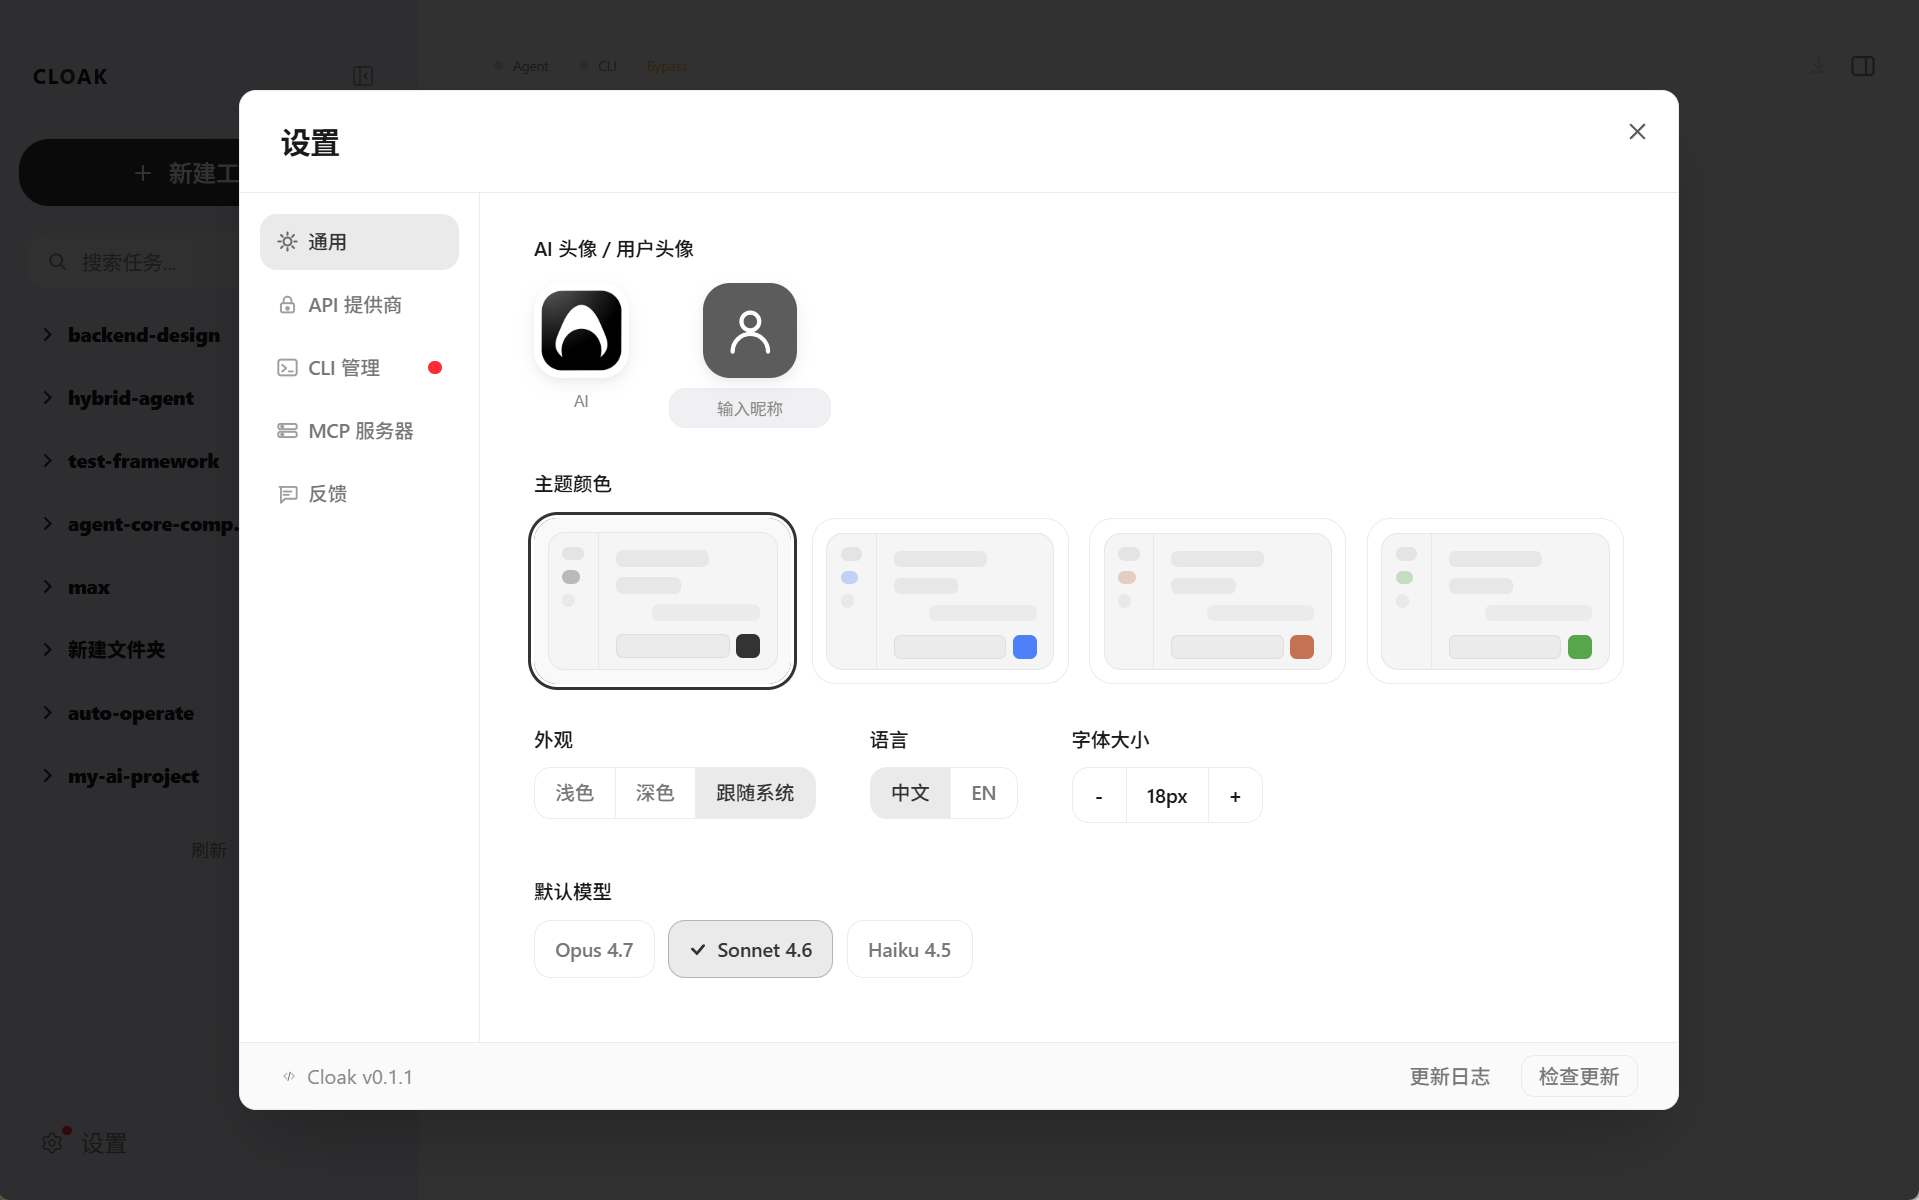
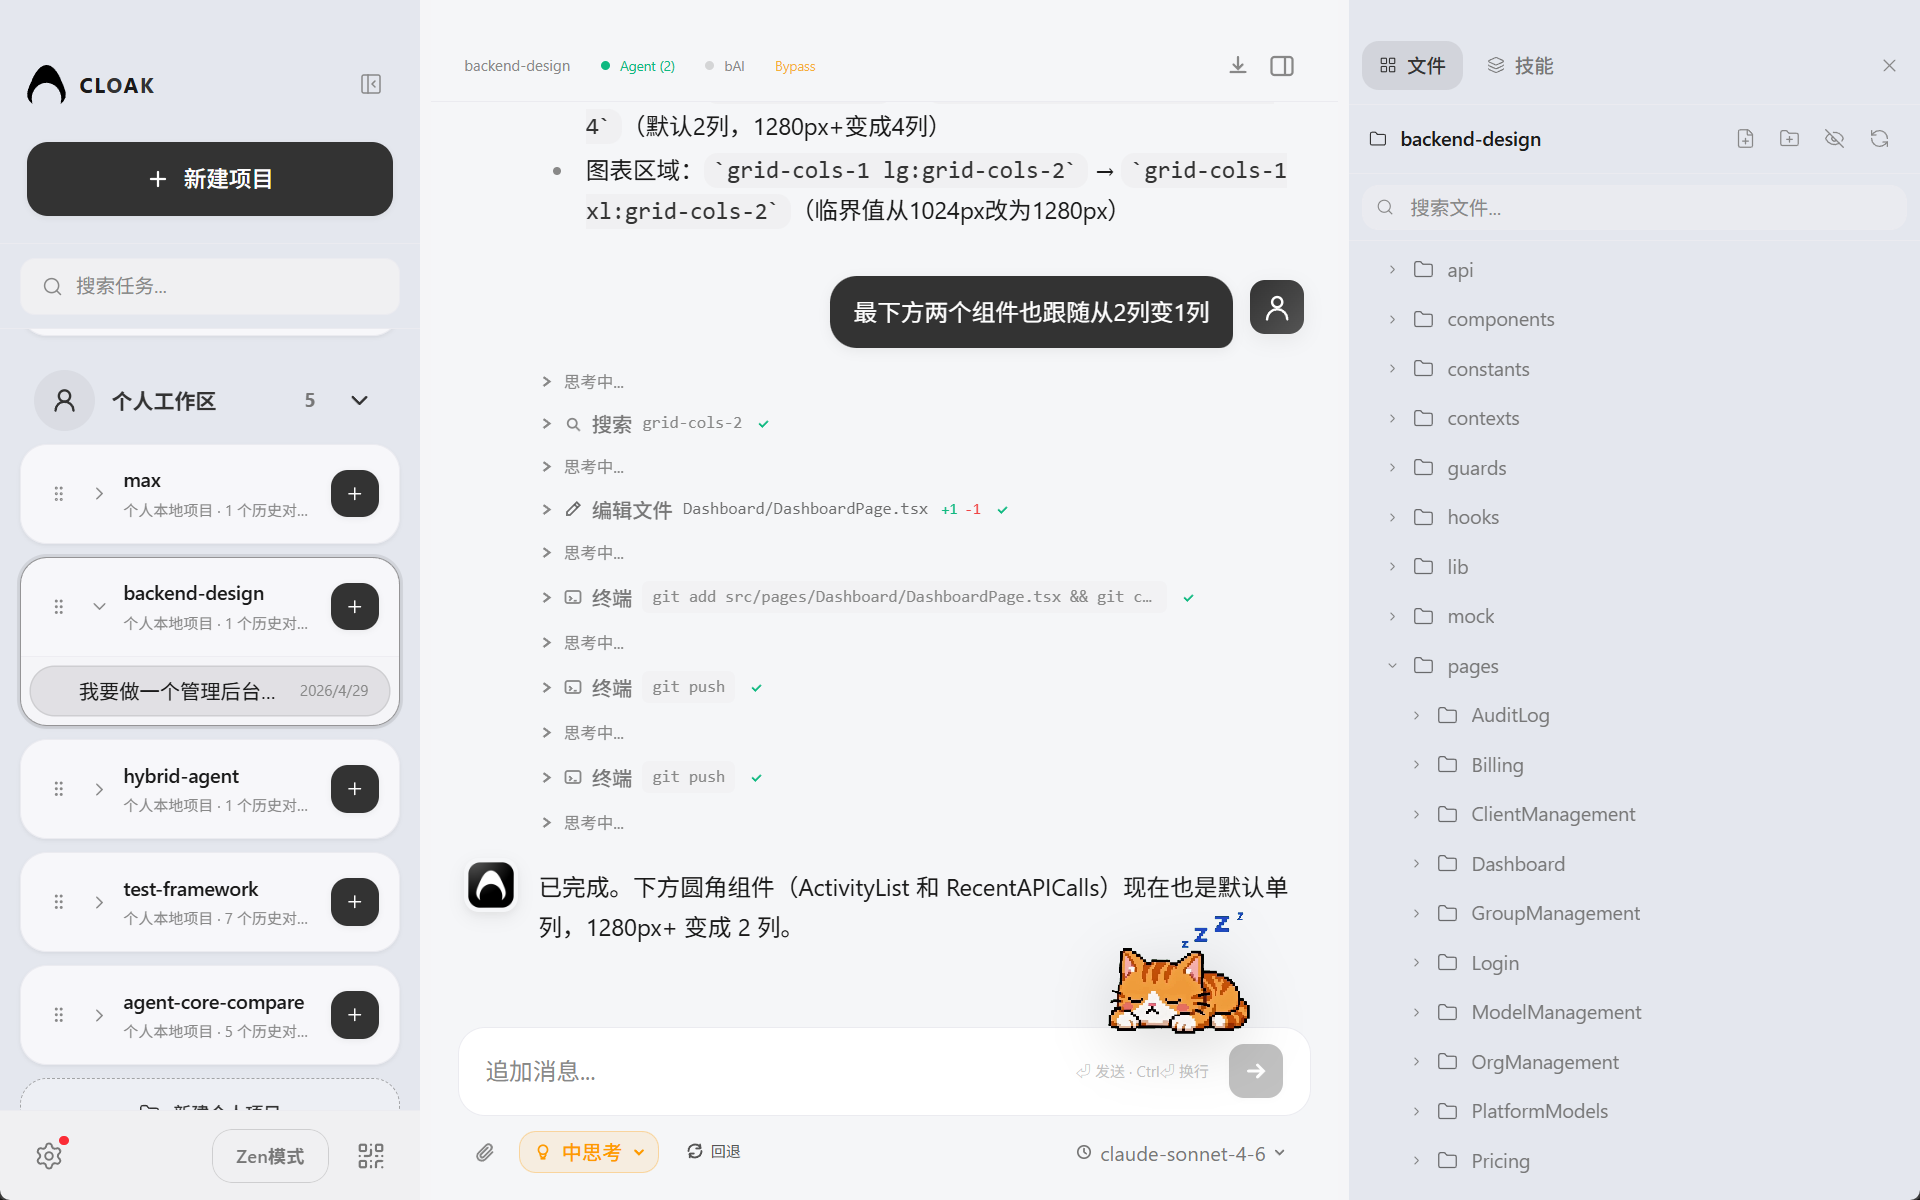
docs: update readme for v0.1.3

diff --git a/README.md b/README.md
@@ -6,7 +6,7 @@
 
 **面向企业全员的 AI 工作平台，让组织的智力资产越用越厚**
 
-[![版本](https://img.shields.io/badge/版本-0.1.1-blue)](https://github.com/43-COLLEGE-TEAM/Cloak/releases)
+[![版本](https://img.shields.io/badge/版本-0.1.3-blue)](https://github.com/43-COLLEGE-TEAM/Cloak/releases/tag/v0.1.3)
 [![平台](https://img.shields.io/badge/平台-Windows%20%7C%20macOS%20%7C%20Linux-lightgrey)](#下载)
 [![License](https://img.shields.io/badge/License-Proprietary-red)](#)
 
@@ -22,7 +22,7 @@
 
 43 CLOAK 让企业的 AI 投入对管理者**管得住、用得对、留得下**，让 AI 对员工越用越懂业务、越懂岗位、越懂这家公司，适用于各行业、各规模企业的全员 AI 协作场景。
 
-> 当前发布的桌面客户端为 43 CLOAK 的个人使用入口，企业工作区功能正在持续建设中。
+> 当前发布的桌面客户端已支持个人空间与企业空间，既可以作为个人 AI 工作入口，也可以接入企业团队协作场景。
 > 本项目早期工作参考借鉴了 [TOKENICODE](https://github.com/yiliqi78/TOKENICODE) 进行迭代开发，在此致谢原作者（@小七姐，@Tiny）。
 > Cloak 为闭源软件，仅提供安装包。
 
@@ -30,22 +30,28 @@
 
 - 💬 **多个对话同时进行** — 可以同时开好几个话题，互不干扰，随时切换
 - 📁 **直接处理文件** — 把文件拖进对话窗口，让 AI 帮你读、帮你总结、帮你分析
+- 🏢 **个人空间 / 企业空间** — 个人资料与企业知识分开管理，团队协作边界更清晰
+- 🪪 **飞书账号登录** — 企业成员可使用飞书账号登录，减少额外账号配置
+- 🛠 **管理后台** — 管理后台正在开发中，部分空间与成员管理能力已经可用
 - 🤖 **选择不同的 AI 模型** — 根据需要，自由选择反应更快或能力更强的模型
 - 🎨 **个性化界面** — 亮色、暗色随意切，还有多种配色可选
+- 🧩 **工作搭子虚拟宠物** — 在工作过程中提供更轻量、更有陪伴感的交互体验
+- 💌 **问题反馈** — 设置中可以直接提交使用问题与改进建议
 - 🌐 **中英文支持** — 界面语言可以随时切换
 
 ---
 
 ## 下载
 
-> 当前版本：**v0.1.1**
+> 当前版本：**0.1.3**  
+> 发布页：[43-COLLEGE-TEAM/Cloak](https://github.com/43-COLLEGE-TEAM/Cloak/releases/tag/v0.1.3)
 
 | 系统 | 下载 |
 |------|------|
-| 🪟 Windows | [点击下载](https://github.com/43-COLLEGE-TEAM/Cloak/releases/download/v0.1.1/Cloak_0.1.1_x64-setup.exe) |
-| 🍎 macOS（M 系列芯片）| [点击下载](https://github.com/43-COLLEGE-TEAM/Cloak/releases/download/v0.1.1/Cloak_0.1.1_aarch64.dmg) |
-| 🍎 macOS（Intel 芯片）| [点击下载](https://github.com/43-COLLEGE-TEAM/Cloak/releases/download/v0.1.1/Cloak_0.1.1_x64.dmg) |
-| 🐧 Linux | [点击下载](https://github.com/43-COLLEGE-TEAM/Cloak/releases/download/v0.1.1/Cloak_0.1.1_amd64.AppImage) |
+| 🪟 Windows | [点击下载](https://github.com/43-COLLEGE-TEAM/Cloak/releases/download/v0.1.3/Cloak_0.1.3_x64-setup.exe) |
+| 🍎 macOS（M 系列芯片）| [点击下载](https://github.com/43-COLLEGE-TEAM/Cloak/releases/download/v0.1.3/Cloak_0.1.3_aarch64.dmg) |
+| 🍎 macOS（Intel 芯片）| [点击下载](https://github.com/43-COLLEGE-TEAM/Cloak/releases/download/v0.1.3/Cloak_0.1.3_x64.dmg) |
+| 🐧 Linux | [点击下载](https://github.com/43-COLLEGE-TEAM/Cloak/releases/download/v0.1.3/Cloak_0.1.3_amd64.AppImage) |
 
 不知道自己的 Mac 是哪种芯片？点左上角苹果图标 → **关于本机**，看「芯片」那一行。写着 M1 / M2 / M3 / M4 就选 M 系列，写着 Intel 就选 Intel。
 
@@ -77,9 +83,9 @@
 - **macOS**：打开下载的文件，把 Cloak 图标拖到「应用程序」文件夹
 - **Linux**：右键下载的文件 → 属性 → 勾选「允许作为程序执行」，然后双击打开
 
-### 第二步：填入你的 API Key
+### 第二步：登录与配置
 
-第一次打开 Cloak，点左下角的**设置**图标，找到「服务商」，选择你使用的平台，把 API Key 粘贴进去保存。
+第一次打开 Cloak，可以使用飞书账号登录；如果你使用个人空间，也可以点左下角的**设置**图标，找到「服务商」，选择你使用的平台，把 API Key 粘贴进去保存。
 
 Cloak 内置了以下服务商，选好后点对应链接去注册获取 Key：
 
@@ -109,6 +115,13 @@ Cloak 内置了以下服务商，选好后点对应链接去注册获取 Key：
 
 ## 更新记录
 
+### v0.1.3
+- 支持飞书账号登录，方便企业成员直接进入工作空间
+- 增加企业空间，明确划分企业空间与个人空间
+- 增加管理后台，部分空间与成员管理功能已经可用
+- 设置中增加问题反馈功能，使用中遇到问题可以更方便地提交
+- 新增工作搭子虚拟宠物，让日常 AI 协作更有陪伴感
+
 ### v0.1.1
 - 修复了左侧菜单有时展开收起不正常的问题
 - 修复了后台偶尔占用内存过高的问题
@@ -126,12 +139,14 @@ Cloak 内置了以下服务商，选好后点对应链接去注册获取 Key：
 
 ## 未来计划
 
-### 企业 / 团队功能
+### 43hub
 
-- **飞书账号登录** — 企业用户通过飞书一键登录，无需单独配置 API Key
-- **团队配额管理** — Token 用量由管理员统一分配，个人无需关心计费
-- **工作空间** — 按项目或团队划分独立的文件与对话空间，互不干扰
-- **审计与合规** — 每次调用精确绑定至具体员工与业务产出，管理员可查看操作日志，满足企业合规要求
+- **skill 商城** — 提供适合不同业务场景的 skill 发现与安装入口
+
+### 管理后台
+
+- **企业技能沉淀** — 将企业内部流程、经验与工具封装成可复用的工作能力
+- **技能分发与治理** — 支持企业按团队、岗位或项目分发 skill，并持续维护版本
 
 ### 平台扩展
 
@@ -142,9 +157,11 @@ Cloak 内置了以下服务商，选好后点对应链接去注册获取 Key：
 
 ## 遇到问题？
 
-用着有什么不对劲，或者有想要的新功能，欢迎告诉我们：
+用着有什么不对劲，或者有想要的新功能，可以在应用内直接反馈：
 
-👉 [去这里反馈](https://github.com/43-COLLEGE-TEAM/Cloak/issues/new)
+打开左下角的**设置**，进入**反馈**页面，填写问题描述。你可以粘贴截图或选择文件，也可以留下邮箱、微信或飞书手机号，方便我们后续跟进。
+
+![设置中的反馈页面](docs/screenshots/feedback.png)
 
 说清楚你在做什么、出现了什么情况、用的是哪个系统，我们会尽快处理。
 
